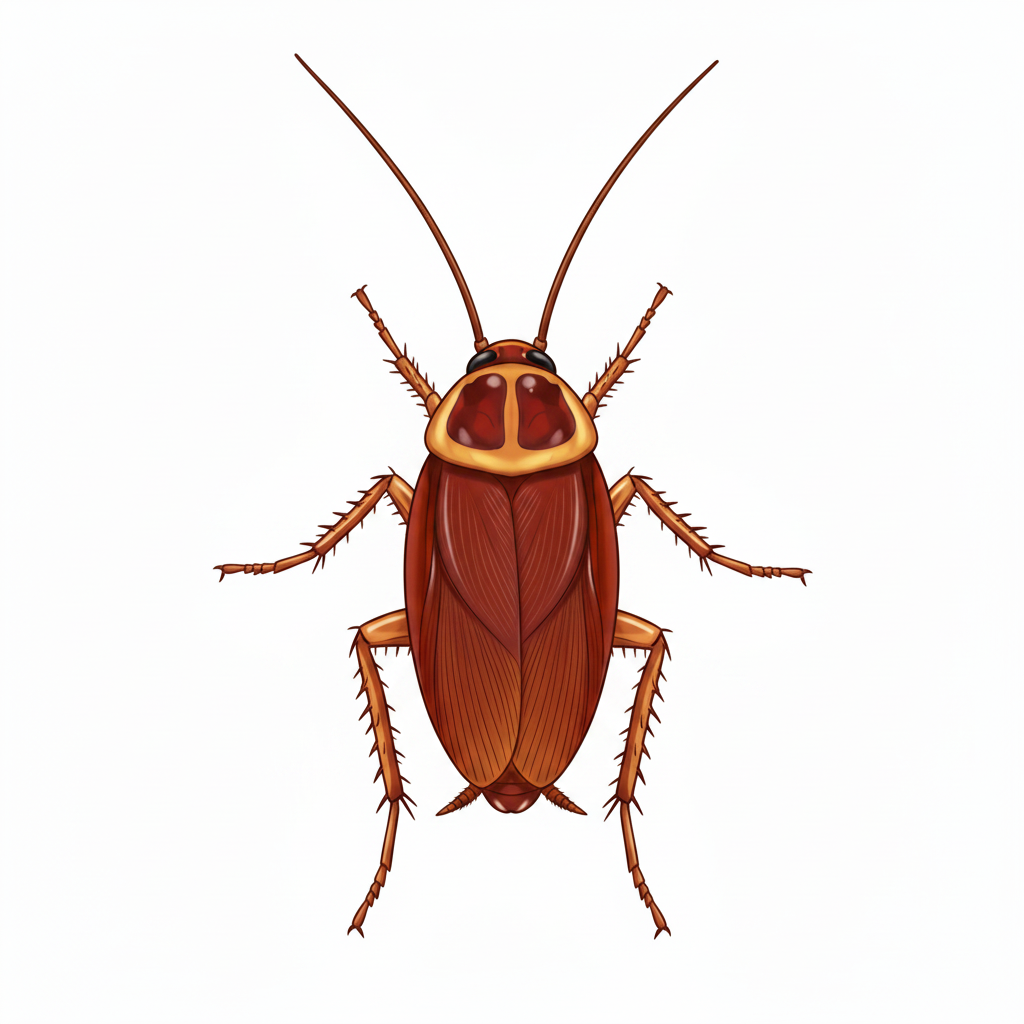
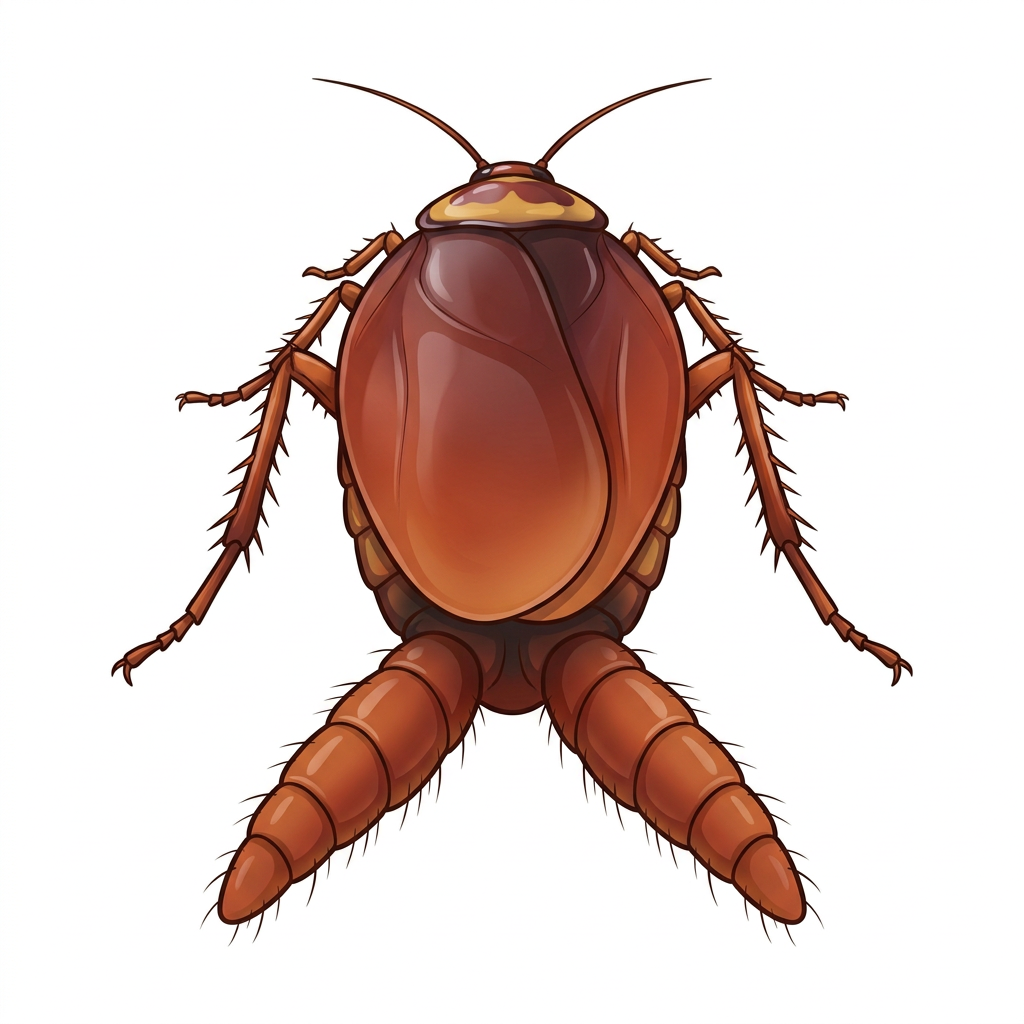
Vector-draw usus-halus-besar p08 and kecoak p03; rebuild turnarounds
- usus-halus-besar p08: front layout mirrored left-right (cecum on the
  viewer's right from behind), after 4 failed Gemini attempts.
- kecoak p03: true rear view as flat vector, status revisi (style).
- Status after montase + gen: 0 salah, 14 revisi (all intentional style
  mismatches or turnarounds waiting on them), 0 unreviewed.

diff --git a/osn-app/image-results/_STATUS.md b/osn-app/image-results/_STATUS.md
@@ -2,7 +2,7 @@
 
 Di-generate oleh `image-prompts/_src/gen.mjs`. Jangan edit manual. Hasil review disimpan di `_review.json`.
 Keterangan: ⬜ belum ada gambar · 🔍 ada gambar, belum direview · ✅ lolos · ⚠ perlu revisi · ❌ salah (generate ulang)
-**Total:** 1996/2092 slot terisi · 1964/2092 lolos review
+**Total:** 2009/2092 slot terisi · 1995/2092 lolos review
 
 ## IPA 01 · Makhluk Hidup & Lingkungan
 
@@ -28,7 +28,7 @@ Keterangan: ⬜ belum ada gambar · 🔍 ada gambar, belum direview · ✅ lolos
 | [Kura-kura / penyu](ipa/01-makhluk-hidup/kura-kura/) | 10/10 | 10/10 |  |
 | [Buaya (reptil, ovipar)](ipa/01-makhluk-hidup/buaya/) | 10/10 | 10/10 |  |
 | [Komodo (endemik NTT)](ipa/01-makhluk-hidup/komodo/) | 10/10 | 10/10 |  |
-| [Anoa (endemik Sulawesi)](ipa/01-makhluk-hidup/anoa/) | 9/10 | 8/10 | p06-ilustrasi-turnaround: ⚠ revisi — 4 panel arah sudah benar (depan/belakang/kiri/kanan berbeda, tidak ada 3/4), gaya ilustrasi konsisten di semua panel. Namun sama seperti versi realistis, tanduk pada panel depan terlihat tegak/melengkung ke atas, bukan merebah ke belakang mendekati leher seperti anoa asli — meski pada panel kiri/kanan tanduknya sedikit lebih merebah, masih kurang panjang dan kurang rapat ke kepala dibanding referensi. Prompt koreksi: 'Make the horns longer, straighter, and swept further backward along the skull in every panel, closely matching the real lowland anoa's horn shape (compare reference photos) — not an upright/curved cattle-like horn.' |
+| [Anoa (endemik Sulawesi)](ipa/01-makhluk-hidup/anoa/) | 10/10 | 10/10 |  |
 | [Jalak Bali (endemik)](ipa/01-makhluk-hidup/jalak-bali/) | 10/10 | 10/10 |  |
 | [Orangutan (endemik Kalimantan/Sumatra)](ipa/01-makhluk-hidup/orangutan/) | 10/10 | 10/10 |  |
 | [Harimau Sumatra (endemik)](ipa/01-makhluk-hidup/harimau-sumatra/) | 10/10 | 10/10 |  |
@@ -48,8 +48,8 @@ Keterangan: ⬜ belum ada gambar · 🔍 ada gambar, belum direview · ✅ lolos
 | [Laba-laba (arachnida)](ipa/01-makhluk-hidup/laba-laba/) | 10/10 | 10/10 |  |
 | [Semut (insecta)](ipa/01-makhluk-hidup/semut/) | 10/10 | 10/10 |  |
 | [Lebah madu (insecta, penyerbuk)](ipa/01-makhluk-hidup/lebah/) | 10/10 | 8/10 | p01-realistis-turnaround: ⚠ revisi — Kedua profil menghadap ke kiri; profil kanan tidak ada. Prompt: "Third copy head pointing LEFT, fourth copy head pointing RIGHT."<br>p03-realistis-belakang: ⚠ revisi — Konten benar (lebah dari belakang: ujung perut + sengat paling dekat, kepala kecil + antena bersiku di ujung jauh, 4 sayap terlipat, 6 kaki, keranjang serbuk sari) tetapi file ini gambar VEKTOR datar, bukan foto ultra-realistis seperti p02/p04/p05 — gaya tidak konsisten dengan set realistis (permintaan reviewer osn-app-ce). Tidak diterbitkan app. Perbaikan: foto tampak belakang lebah madu CC0/PD (belum ditemukan di Commons) atau generasi foto realistis baru dengan acuan depan satu-giliran. |
-| [Belalang (metamorfosis tidak sempurna)](ipa/01-makhluk-hidup/belalang/) | 11/12 | 10/12 | p06-ilustrasi-turnaround: ⚠ revisi — Tampak tidak konsisten (ventral, dorsal, samping, dorsal); profil kanan tidak ada. Prompt: "Four copies: front, back, left profile, right profile." |
-| [Kecoak (metamorfosis tidak sempurna)](ipa/01-makhluk-hidup/kecoak/) | 9/10 | 8/10 | p01-realistis-turnaround: ⚠ revisi — Keempat salinan identik (tampak atas). Prompt: "Four copies: front (head toward camera, eye level), back, left profile, right profile."<br>p03-realistis-belakang: ❌ salah — GAGAL 4x berturut-turut (chained awal, rewrite standalone cerci-prominent, rewrite kedua dengan framing kaki-belakang-besar yang BERHASIL untuk versi ilustrasi p08 -- tapi versi fotorealistis tetap kembali ke pose dorsal depan: antena panjang di atas, mata majemuk menghadap kamera, tidak ada rotasi sama sekali). Model foto-realistis tampak lebih kuat 'berpegang' pada komposisi studio-photo kanonis dibanding model ilustrasi untuk objek ini. Limitasi model, sama kategori dengan jantung/bulan-p09/lebah-p03. Opsi: vektor (gaya fotoreal sulit direplikasi vektor, resiko mismatch gaya seperti lebah p03) atau coba sekali lagi dengan model berbeda di masa depan. |
+| [Belalang (metamorfosis tidak sempurna)](ipa/01-makhluk-hidup/belalang/) | 12/12 | 12/12 |  |
+| [Kecoak (metamorfosis tidak sempurna)](ipa/01-makhluk-hidup/kecoak/) | 10/10 | 8/10 | p01-realistis-turnaround: ⚠ revisi — Keempat salinan identik (tampak atas). Prompt: "Four copies: front (head toward camera, eye level), back, left profile, right profile."<br>p03-realistis-belakang: ⚠ revisi — Konten benar setelah 5x gagal di Gemini (duplikat tampak depan): kecoak dari belakang, sayap penutup berupa kubah dengan garis tengah, ujung perut dan sepasang sersi (cerci) bersegmen mengarah ke penonton, tiga pasang kaki berduri terentang (kaki belakang paling besar), antena panjang ke depan. Tetapi ini gambar VEKTOR datar, bukan foto realistis seperti p02/p04/p05 — gaya tidak konsisten dengan set realistis. Tidak diterbitkan app (slot belakang tidak dipakai). |
 | [Capung](ipa/01-makhluk-hidup/capung/) | 10/10 | 10/10 |  |
 | [Nyamuk Aedes aegypti (vektor DBD)](ipa/01-makhluk-hidup/nyamuk-aedes/) | 10/10 | 8/10 | p01-realistis-turnaround: ⚠ revisi — Ilmiah benar (pola lira putih di toraks, kaki bergelang putih, antena betina berambut jarang, 6 kaki), tetapi ada garis pembatas panel padahal dilarang. Kecil; bisa dipakai setelah dipotong per panel, atau generate ulang dengan template baru.<br>p03-realistis-belakang: ⚠ revisi — Konten benar (tampak bawah/ventral nyamuk Aedes betina: perut dan dada krem, 6 kaki bercincin putih, belalai, antena betina berambut jarang, halter, sayap terlipat) tetapi file ini gambar VEKTOR datar, bukan foto makro realistis seperti p02/p04/p05 — gaya tidak konsisten dengan set realistis. Tidak diterbitkan app (belakang tidak dipakai). Perbaikan: foto makro ventral nyamuk CC0/PD (belum ditemukan) atau biarkan sebagai pelengkap set. |
 | [Lalat rumah (vektor)](ipa/01-makhluk-hidup/lalat/) | 10/10 | 10/10 |  |
@@ -83,7 +83,7 @@ Keterangan: ⬜ belum ada gambar · 🔍 ada gambar, belum direview · ✅ lolos
 | [Kantong semar (tumbuhan karnivora)](ipa/01-makhluk-hidup/kantong-semar/) | 12/12 | 12/12 |  |
 | [Putri malu (peka rangsang)](ipa/01-makhluk-hidup/putri-malu/) | 1/2 | 1/2 |  |
 | [Anggrek bulan (epifit, puspa pesona)](ipa/01-makhluk-hidup/anggrek-bulan/) | 10/10 | 10/10 |  |
-| [Rafflesia arnoldii (puspa langka)](ipa/01-makhluk-hidup/rafflesia/) | 8/10 | 3/10 | p01-realistis-turnaround: ⚠ revisi — Tampak tidak lengkap (depan muncul 2 kali). Prompt: "Exactly four copies: front (top), back (underside), left side, right side."<br>p03-realistis-belakang: 🔍 belum direview<br>p04-realistis-kiri: 🔍 belum direview<br>p06-ilustrasi-turnaround: ⚠ revisi — 1 depan + 3 samping mirip kuncup. Prompt: "Four copies: top, underside, left side, right side of a fully open five-lobed flower."<br>p08-ilustrasi-belakang: 🔍 belum direview |
+| [Rafflesia arnoldii (puspa langka)](ipa/01-makhluk-hidup/rafflesia/) | 10/10 | 10/10 |  |
 | [Bunga bangkai (Amorphophallus titanum)](ipa/01-makhluk-hidup/bunga-bangkai/) | 10/10 | 10/10 |  |
 | [Benalu pada ranting (parasit)](ipa/01-makhluk-hidup/benalu/) | 10/10 | 10/10 |  |
 | [Lumut kerak (lichen, simbiosis)](ipa/01-makhluk-hidup/lichen/) | 10/10 | 10/10 |  |
@@ -136,8 +136,8 @@ Keterangan: ⬜ belum ada gambar · 🔍 ada gambar, belum direview · ✅ lolos
 | [Lidah (indera pengecap)](ipa/02-tubuh-manusia/lidah/) | 12/12 | 12/12 |  |
 | [Lambung](ipa/02-tubuh-manusia/lambung/) | 12/12 | 12/12 |  |
 | [Hati & kantong empedu](ipa/02-tubuh-manusia/hati-empedu/) | 12/12 | 12/12 |  |
-| [Pankreas](ipa/02-tubuh-manusia/pankreas/) | 8/12 | 4/12 | p01-realistis-turnaround: ⚠ revisi — Ada teks FRONT/BACK/LEFT SIDE/RIGHT dan keempat salinan sama. Prompt: "No text; anterior, posterior, left, right views."<br>p03-realistis-belakang: 🔍 belum direview<br>p04-realistis-kiri: 🔍 belum direview<br>p06-ilustrasi-turnaround: ⚠ revisi — Ada teks (Front view, Back view, ...) dan 2 baris. Prompt: "Four copies in one row, no text." |
-| [Usus halus & usus besar (dengan umbai cacing)](ipa/02-tubuh-manusia/usus-halus-besar/) | 12/12 | 10/12 | p06-ilustrasi-turnaround: ⚠ revisi — Ada teks Front/Back/Left side/Right. Prompt: "No text."<br>p08-ilustrasi-belakang: ⚠ revisi — GAGAL 2x memperbaiki posisi sekum/apendiks (field-f dgn instruksi 'mirror' abstrak, lalu rewrite standalone dgn instruksi posisi eksplisit 'RIGHT-hand side, 2-3 o'clock') -- model TETAP menempatkan sekum di KIRI gambar, identik dgn p07 (depan), setiap kali. Bias model yang kuat terhadap satu layout tetap, terlepas dari instruksi depan/belakang. Konten lain (usus halus melingkar di tengah, usus besar haustra membingkai) benar, hanya posisi sekum yang perlu dicek/diperbaiki jika memungkinkan via pendekatan lain (vektor?). Tidak mengulang approach prompt lagi -- sudah 2x gagal persis sama. |
+| [Pankreas](ipa/02-tubuh-manusia/pankreas/) | 12/12 | 12/12 |  |
+| [Usus halus & usus besar (dengan umbai cacing)](ipa/02-tubuh-manusia/usus-halus-besar/) | 12/12 | 12/12 |  |
 | [Vili usus halus (jonjot penyerapan)](ipa/02-tubuh-manusia/vili-usus/) | 3/4 | 3/4 |  |
 | [Sistem pernapasan (laring → paru-paru)](ipa/02-tubuh-manusia/sistem-pernapasan/) | 12/12 | 12/12 |  |
 | [Paru-paru](ipa/02-tubuh-manusia/paru-paru/) | 12/12 | 12/12 |  |
@@ -157,13 +157,13 @@ Keterangan: ⬜ belum ada gambar · 🔍 ada gambar, belum direview · ✅ lolos
 | [Penampang mata](ipa/02-tubuh-manusia/mata-penampang/) | 4/4 | 4/4 |  |
 | [Telinga (luar, tengah, dalam)](ipa/02-tubuh-manusia/telinga/) | 4/4 | 4/4 |  |
 | [Penampang hidung (indera pembau)](ipa/02-tubuh-manusia/hidung-penampang/) | 4/4 | 4/4 |  |
-| [Kerangka manusia lengkap](ipa/02-tubuh-manusia/kerangka-manusia/) | 8/10 | 7/10 | p06-ilustrasi-turnaround: ⚠ revisi — Set turnaround ini jauh lebih baik dari p01: panel 1 (depan), panel 2 (belakang, tengkorak dari belakang), dan panel 3 (profil KIRI, tengkorak terlihat dari samping dengan rahang dan kurva tulang belakang) semuanya benar dan jelas berbeda satu sama lain. TAPI panel 4 (seharusnya profil KANAN, cerminan panel 3) malah menampilkan TAMPAK BELAKANG lagi (duplikat dari panel 2), bukan profil samping kanan. WAJIB dicek oleh guru sains. Saran prompt koreksi (EN): "Regenerate panel 4 (RIGHT) as a true mirror of panel 3's left side profile — head/face pointing right, seen edge-on — not a repeat of the back/posterior view already shown in panel 2." |
+| [Kerangka manusia lengkap](ipa/02-tubuh-manusia/kerangka-manusia/) | 10/10 | 10/10 |  |
 | [Tengkorak](ipa/02-tubuh-manusia/tengkorak/) | 10/10 | 10/10 |  |
 | [Tulang belakang](ipa/02-tubuh-manusia/tulang-belakang/) | 12/12 | 12/12 |  |
 | [Rongga dada (tulang rusuk & dada)](ipa/02-tubuh-manusia/tulang-rusuk/) | 10/10 | 5/10 | p01-realistis-turnaround: ⚠ revisi — Panel 1 (depan), panel 2 (belakang), dan panel 3 (kiri/profil) sudah berbeda dan benar secara genuin (wajah dari depan, tengkorak dari belakang, profil dengan tulang belakang melengkung terlihat). Tapi panel 4 (seharusnya kanan) tampak mengulang tampak belakang (tengkorak dari belakang, skapula terlihat) seperti panel 2, bukan cerminan profil kanan yang berbeda dari panel 3. English correction prompt: 'Panel 4 must be a genuine RIGHT lateral profile view (mirror of panel 3's left profile), not a repeat of panel 2's posterior view.'<br>p02-realistis-depan: ⚠ revisi — Gambar vektor datar (bukan Gemini) via vektor-ipa.mjs. Isi: 12 pasang rusuk (7 sejati menyambung ke tulang dada lewat tulang rawan biru, 3 palsu bersambung ke tulang rawan di atasnya, 2 melayang pendek), tulang dada (manubrium, badan, prosesus xifoid), 12 ruas tulang belakang dada. Tampak depan: isi sains benar tetapi gaya datar vektor ada di slot "realistis" (bukan foto). Boleh dipakai bila gaya datar diterima; kalau mau foto asli, generate ulang di Gemini: "photorealistic human rib cage skeleton, depan view, full thoracic cage with sternum and costal cartilage, solid white background, no text".<br>p03-realistis-belakang: ⚠ revisi — Gambar vektor datar (bukan Gemini) via vektor-ipa.mjs. Isi: 12 pasang rusuk (7 sejati menyambung ke tulang dada lewat tulang rawan biru, 3 palsu bersambung ke tulang rawan di atasnya, 2 melayang pendek), tulang dada (manubrium, badan, prosesus xifoid), 12 ruas tulang belakang dada. Tampak belakang: isi sains benar tetapi gaya datar vektor ada di slot "realistis" (bukan foto). Boleh dipakai bila gaya datar diterima; kalau mau foto asli, generate ulang di Gemini: "photorealistic human rib cage skeleton, belakang view, full thoracic cage with sternum and costal cartilage, solid white background, no text".<br>p04-realistis-kiri: ⚠ revisi — Gambar vektor datar (bukan Gemini) via vektor-ipa.mjs. Isi: 12 pasang rusuk (7 sejati menyambung ke tulang dada lewat tulang rawan biru, 3 palsu bersambung ke tulang rawan di atasnya, 2 melayang pendek), tulang dada (manubrium, badan, prosesus xifoid), 12 ruas tulang belakang dada. Tampak kiri: isi sains benar tetapi gaya datar vektor ada di slot "realistis" (bukan foto). Boleh dipakai bila gaya datar diterima; kalau mau foto asli, generate ulang di Gemini: "photorealistic human rib cage skeleton, kiri view, full thoracic cage with sternum and costal cartilage, solid white background, no text".<br>p05-realistis-kanan: ⚠ revisi — Gambar vektor datar (bukan Gemini) via vektor-ipa.mjs. Isi: 12 pasang rusuk (7 sejati menyambung ke tulang dada lewat tulang rawan biru, 3 palsu bersambung ke tulang rawan di atasnya, 2 melayang pendek), tulang dada (manubrium, badan, prosesus xifoid), 12 ruas tulang belakang dada. Tampak kanan: isi sains benar tetapi gaya datar vektor ada di slot "realistis" (bukan foto). Boleh dipakai bila gaya datar diterima; kalau mau foto asli, generate ulang di Gemini: "photorealistic human rib cage skeleton, kanan view, full thoracic cage with sternum and costal cartilage, solid white background, no text". |
 | [Tulang pipa (femur) & penampangnya](ipa/02-tubuh-manusia/tulang-paha-penampang/) | 4/4 | 4/4 |  |
 | [Jenis sendi: peluru, engsel, putar, pelana](ipa/02-tubuh-manusia/sendi-set/) | 4/4 | 4/4 |  |
-| [Otot lengan bisep & trisep (antagonis)](ipa/02-tubuh-manusia/otot-lengan/) | 10/12 | 5/12 | p01-realistis-turnaround: ⚠ revisi — Keempat panel (seharusnya depan/bisep, belakang/trisep, kiri, kanan) menampilkan pose dan tonjolan otot yang HAMPIR IDENTIK — semuanya menunjukkan sisi dengan tonjolan bisep yang sama menghadap kamera, tidak ada panel yang jelas menunjukkan sisi trisep (belakang) yang seharusnya berbeda bentuk (otot trisep berbentuk tapal kuda, bukan tonjolan bisep). Rotasi turnaround gagal total. WAJIB dicek guru sains. Saran prompt koreksi (EN): "Regenerate with four genuinely distinct panels: FRONT showing the biceps bulge, BACK showing the horseshoe-shaped triceps (different muscle shape, no biceps peak visible), and LEFT/RIGHT showing true lateral/medial profiles — all four panels currently show the same biceps-side view."<br>p04-realistis-kiri: 🔍 belum direview<br>p05-realistis-kanan: 🔍 belum direview<br>p06-ilustrasi-turnaround: ⚠ revisi — Sama seperti p01 (versi realistis) — keempat panel ilustrasi menampilkan pose dan tonjolan bisep yang identik, tidak ada panel trisep (belakang) yang jelas berbeda bentuk. WAJIB dicek guru sains. Saran prompt koreksi sama seperti p01 (EN di atas).<br>p08-ilustrasi-belakang: 🔍 belum direview |
+| [Otot lengan bisep & trisep (antagonis)](ipa/02-tubuh-manusia/otot-lengan/) | 12/12 | 12/12 |  |
 | [3 jenis otot: lurik, polos, jantung](ipa/02-tubuh-manusia/jenis-otot-set/) | 2/2 | 2/2 |  |
 | [Organ reproduksi wanita (internal)](ipa/02-tubuh-manusia/reproduksi-wanita/) | 12/12 | 12/12 |  |
 | [Organ reproduksi pria (internal, testis & saluran)](ipa/02-tubuh-manusia/reproduksi-pria/) | 4/4 | 4/4 |  |

diff --git a/CLAUDE.md b/CLAUDE.md
@@ -82,7 +82,7 @@ Every object must be verified against web sources before the user generates it.
 - **Billing:** Google Cloud free-trial credits do **not** apply to the Gemini API / AI Studio (excluded since March 2026). Use `--vertex` instead. It calls Vertex AI in project `project-a087bc92-937b-4ba3-859` (account azukanurunara94@gmail.com), with auth from the separate gcloud configuration `osn-sd` via `gcloud auth print-access-token`, and no API key. Never touch the `default` gcloud config, which belongs to an unrelated client project. Whether Vertex usage is actually deducted from the free-trial credits must be confirmed in Billing → Reports before any large run.
 - Turnaround sheets are **not generated** (every model kept getting the 4 panels wrong: duplicate fronts, both profiles facing the same way, 3/4 angles). The generator skips them unless `--turnaround`. Run `python image-prompts/_src/montase-turnaround.py` (from `osn-app/`) after a review round: it builds each turnaround from the four single views (depan, belakang, kiri, kanan) once all four are `ok`, and records an `ok` verdict that says it was assembled.
 - Redoing rejected slots: move the image to `*.lama.png` and its verdict to `"<key>.lama"`, then run with `--fix --slots …`. `--fix` appends the quoted English correction prompts from the `.lama` verdict to the prompt. Slots in the same session that are not being redone are fed back as context, not regenerated, so approved images are never overwritten. Vertex model names have no `-preview` suffix (`gemini-3.1-flash-image`, `gemini-3-pro-image`).
-- MTK precision props (dadu, spinner, jam-analog, tangram, sempoa, speedometer, kubus, balok, limas-segitiga, limas-segiempat, prisma-segitiga, kerucut p02–p05, bola, bangun-ruang-set, bangun-datar-set, alat-geometri-set, geoboard, batang-korek-pola, cokelat-batang, kue-bolu-pecahan p01, jaring-jaring-kubus, kubus-satuan, kartu-bernomor, susunan-pola-bola, timbangan-aljabar, pizza-pecahan p01) and IPA props where wiring, counts or geometry kept failing (rangkaian-seri, rangkaian-paralel, periskop p11–p12, baterai-set p03–p04, katrol-bergerak, katrol-tetap all eight views, kompas p01; and, drawn by `image-prompts/_src/vektor-ipa.mjs`, ambulans-doppler, distilasi, kromatografi p02, model-atom p04, slinki p02, termos-penampang p03–p04, lensa-cembung-cekung-set, larutan-koloid-suspensi p03–p04, molekul-set p02, termometer-set p03, mikroskop p03/p11/p12, kamera-lubang-jarum p02, periskop p07–p10, bidang-miring-papan p10, dinamo-sepeda p09–p10, transformator p10–p11, kincir-angin p10, kipas-angin p05, bel-listrik p02, gelas-ukur p02–p05, stopwatch all views, neraca-ohauss all views, alat-gelas-lab-set p01, speaker-mikrofon-set p03, teropong-bintang p11–p12, tata-surya-deret, rasi-orion p01, fase-bulan-deret, bumi-lapisan p03–p04, jupiter p11–p12, profil-tanah, pelangi, gunung-meletus p03–p04, pasang-surut-set p02, telur-ayam p03–p04, penampang-daun p03–p04, akar-tunggang-serabut-set p04, sel-tumbuhan p09–p11, sel-hewan p02/p04/p05/p09/p10/p12, alveolus p03–p04, lambung p11, mata p11, mata-penampang p01–p03, ginjal-penampang p01, lebah p03/p08, jantung p04/p08/p09/p10, hati-empedu p09/p10, lidah p10, sistem-pernapasan p12, kentang-bertunas p12, vaksin-suntik p01, tingkatan-organisasi-makhluk-hidup-set p02, daur-katak-set p03–p04, tulang-rusuk all views, sistem-urinaria p07/p08/p11/p12, tulang-belakang p10–p12, tulang-paha-penampang p03–p04, reproduksi-pria p02–p04, jupiter/merkurius/venus p08–p10, bulan p09–p10, kepiting p08, nyamuk-aedes p03/p08) are drawn as exact vectors by `node image-prompts/_src/vektor-mtk.mjs --install [--only=ids] [--empty]` (`--empty` fills only slots that have no picture yet) or, for the `vektor-ipa.mjs` ones, `node image-prompts/_src/vektor-ipa.mjs --install [--only=ids]`, not Gemini, which kept getting counts and angles wrong. Never regenerate those slots with gemini-gen; change the drawing code instead.
+- MTK precision props (dadu, spinner, jam-analog, tangram, sempoa, speedometer, kubus, balok, limas-segitiga, limas-segiempat, prisma-segitiga, kerucut p02–p05, bola, bangun-ruang-set, bangun-datar-set, alat-geometri-set, geoboard, batang-korek-pola, cokelat-batang, kue-bolu-pecahan p01, jaring-jaring-kubus, kubus-satuan, kartu-bernomor, susunan-pola-bola, timbangan-aljabar, pizza-pecahan p01) and IPA props where wiring, counts or geometry kept failing (rangkaian-seri, rangkaian-paralel, periskop p11–p12, baterai-set p03–p04, katrol-bergerak, katrol-tetap all eight views, kompas p01; and, drawn by `image-prompts/_src/vektor-ipa.mjs`, ambulans-doppler, distilasi, kromatografi p02, model-atom p04, slinki p02, termos-penampang p03–p04, lensa-cembung-cekung-set, larutan-koloid-suspensi p03–p04, molekul-set p02, termometer-set p03, mikroskop p03/p11/p12, kamera-lubang-jarum p02, periskop p07–p10, bidang-miring-papan p10, dinamo-sepeda p09–p10, transformator p10–p11, kincir-angin p10, kipas-angin p05, bel-listrik p02, gelas-ukur p02–p05, stopwatch all views, neraca-ohauss all views, alat-gelas-lab-set p01, speaker-mikrofon-set p03, teropong-bintang p11–p12, tata-surya-deret, rasi-orion p01, fase-bulan-deret, bumi-lapisan p03–p04, jupiter p11–p12, profil-tanah, pelangi, gunung-meletus p03–p04, pasang-surut-set p02, telur-ayam p03–p04, penampang-daun p03–p04, akar-tunggang-serabut-set p04, sel-tumbuhan p09–p11, sel-hewan p02/p04/p05/p09/p10/p12, alveolus p03–p04, lambung p11, mata p11, mata-penampang p01–p03, ginjal-penampang p01, lebah p03/p08, jantung p04/p08/p09/p10, hati-empedu p09/p10, lidah p10, sistem-pernapasan p12, kentang-bertunas p12, vaksin-suntik p01, tingkatan-organisasi-makhluk-hidup-set p02, daur-katak-set p03–p04, tulang-rusuk all views, sistem-urinaria p07/p08/p11/p12, tulang-belakang p10–p12, tulang-paha-penampang p03–p04, reproduksi-pria p02–p04, jupiter/merkurius/venus p08–p10, bulan p09–p10, kepiting p08, nyamuk-aedes p03/p08, usus-halus-besar p08, kecoak p03) are drawn as exact vectors by `node image-prompts/_src/vektor-mtk.mjs --install [--only=ids] [--empty]` (`--empty` fills only slots that have no picture yet) or, for the `vektor-ipa.mjs` ones, `node image-prompts/_src/vektor-ipa.mjs --install [--only=ids]`, not Gemini, which kept getting counts and angles wrong. Never regenerate those slots with gemini-gen; change the drawing code instead.
 - `--hemat` generates only the illustration front/top view plus the cut-open cross-section per object (~400 images). `--biaya` totals estimated cost from `image-results/_usage.jsonl`. Pricing per image (paid tier, 2026): Nano Banana `gemini-2.5-flash-image` $0.039 · Nano Banana 2 `gemini-3.1-flash-image` $0.067 (1K) · Nano Banana Pro `gemini-3-pro-image` $0.134 (1K/2K).
 
 ### Pictures in the app (`osn-app/scripts/build-objek-foto.mjs`)
